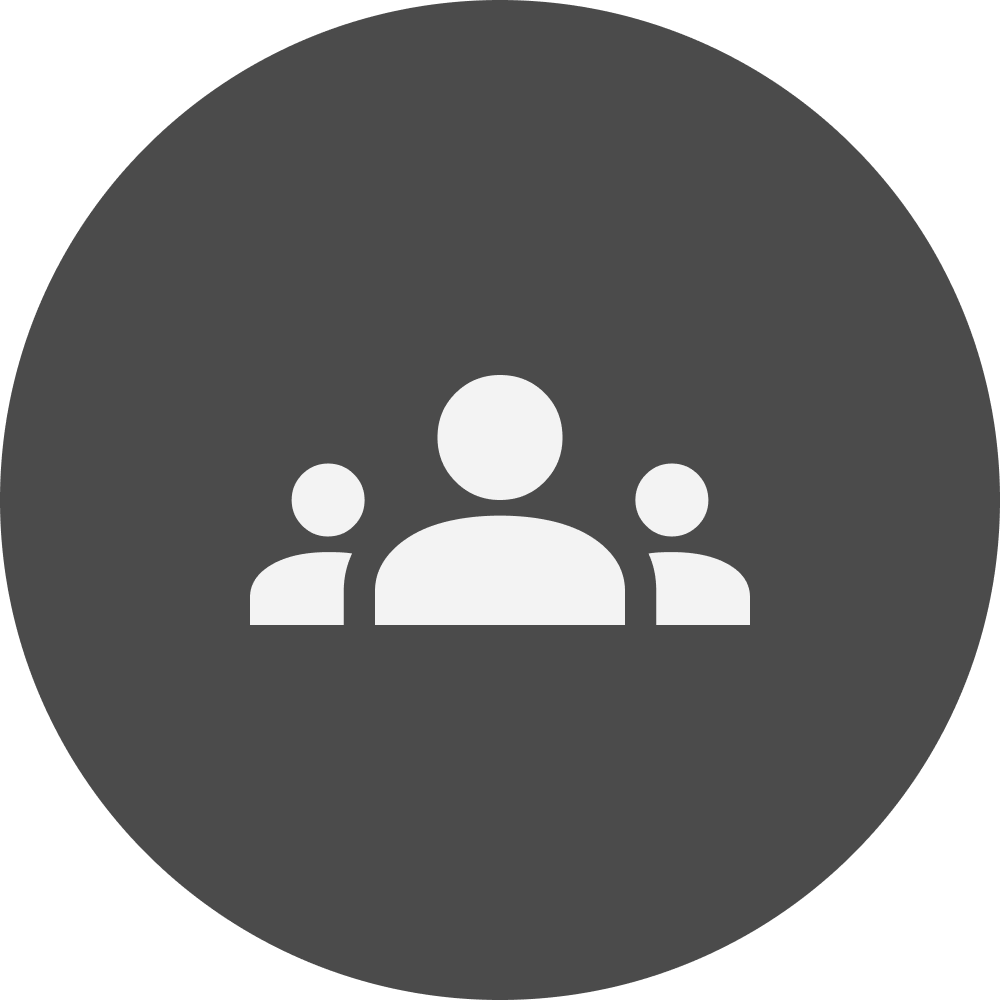
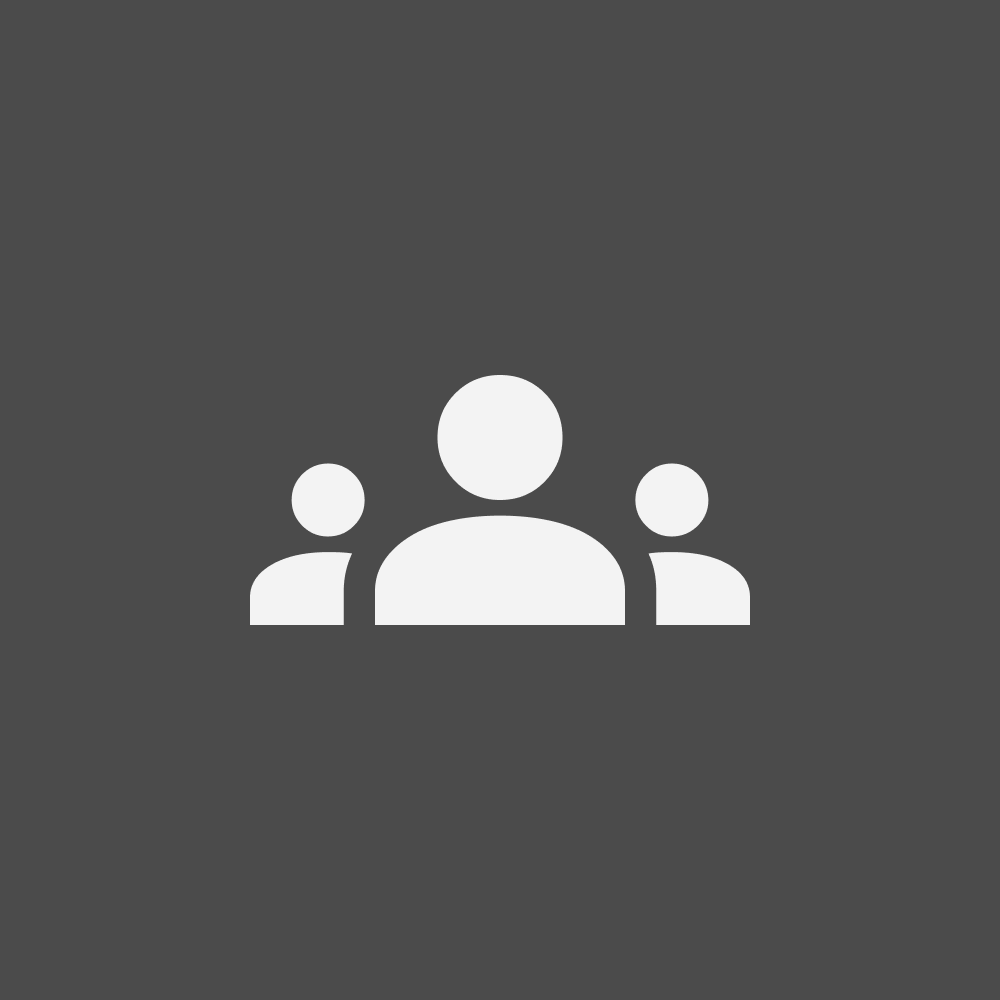
Chat Page UI UX done.

diff --git a/lib/src/presentation/common/widgets/useful.dart b/lib/src/presentation/common/widgets/useful.dart
@@ -137,7 +137,11 @@ Widget checkBox(String label, bool? value, bool tristate,
   ]);
 }
 
-Widget profilePicture(double diameter, String address, {bool isUrl = false}) {
+Widget profilePicture(
+  double diameter,
+  String address, {
+  bool isUrl = false,
+}) {
   return Container(
       width: diameter,
       height: diameter,
@@ -153,18 +157,24 @@ Widget profilePicture(double diameter, String address, {bool isUrl = false}) {
           )));
 }
 
-Widget teamPicture(double diameter, String address) {
+Widget teamPicture(
+  double size,
+  String address, {
+  bool isUrl = false,
+}) {
   return Container(
-      width: diameter,
-      height: diameter,
+      width: size,
+      height: size,
       decoration: BoxDecoration(
-          shape: BoxShape.circle,
+          // shape: BoxShape.circle,
           image: DecorationImage(
-            image: address == ''
-                ? const ExactAssetImage("assets/images/test.jpeg")
-                : Image.network(address).image,
-            fit: BoxFit.cover,
-          )));
+        image: isUrl
+            ? address == ''
+                ? const ExactAssetImage("assets/images/avatar_temp.png")
+                : Image.network(address).image
+            : ExactAssetImage("assets/images/$address"),
+        fit: BoxFit.cover,
+      )));
 }
 
 Widget circleIcon({color, icon}) {
@@ -250,12 +260,13 @@ Widget smallText(String label,
     color = blackColor,
     int? maxLines,
     weight = FontWeight.w400,
-    alignment = TextAlign.left}) {
+    alignment = TextAlign.left,
+    overflow = TextOverflow.ellipsis}) {
   return Text(
     label,
     maxLines: maxLines,
     textAlign: alignment,
-    overflow: TextOverflow.ellipsis,
+    overflow: overflow,
     style: TextStyle(
       fontSize: size,
       color: color,
@@ -341,6 +352,45 @@ Widget secondaryButton(
               style:
                   TextStyle(color: Theme.of(context).colorScheme.onSecondary),
             ),
+  );
+}
+
+Widget secondaryIconButton(
+  BuildContext context,
+  Function() onPressedHandler,
+  IconData icon, {
+  horizontalPadding = 30.0,
+  verticalPadding = 10.0,
+  double? elevation,
+  bool isLoading = false,
+  Widget? childBuilder,
+}) {
+  return ElevatedButton(
+    style: ElevatedButton.styleFrom(
+      elevation: elevation,
+      backgroundColor: Theme.of(context).colorScheme.secondary,
+      textStyle: TextStyle(color: Theme.of(context).colorScheme.onSecondary),
+      padding: EdgeInsets.symmetric(
+        vertical: verticalPadding,
+        horizontal: horizontalPadding,
+      ),
+    ),
+    onPressed: () {
+      if (isLoading) {
+        return;
+      }
+      onPressedHandler();
+    },
+    child: isLoading
+        ? SizedBox(
+            height: 17,
+            width: 17,
+            child: CircularProgressIndicator(
+                strokeWidth: 1,
+                color: Theme.of(context).colorScheme.onSecondary),
+          )
+        : childBuilder ??
+            Icon(icon, color: Theme.of(context).colorScheme.onSecondary),
   );
 }
 

diff --git a/lib/src/presentation/chat/widgets/chat_body.dart b/lib/src/presentation/chat/widgets/chat_body.dart
@@ -1,0 +1,86 @@
+import 'package:flutter/material.dart';
+import 'package:launchlab/src/config/app_theme.dart';
+import 'package:launchlab/src/presentation/common/widgets/useful.dart';
+
+class ChatBody extends StatelessWidget {
+  const ChatBody({super.key});
+
+  @override
+  Widget build(BuildContext context) {
+    return Container(
+        padding: EdgeInsets.symmetric(horizontal: 10.0),
+        child: ListView(
+          children: [
+            SizedBox(
+              height: 20.0,
+            ),
+            ChatBubble()
+          ],
+        ));
+  }
+}
+
+class ChatBubble extends StatelessWidget {
+  const ChatBubble({super.key});
+
+  @override
+  Widget build(BuildContext context) {
+    return Container(
+      margin: const EdgeInsets.symmetric(vertical: 10.0),
+      child: Row(
+        textDirection: TextDirection.ltr,
+        children: [
+          Expanded(
+              flex: 3,
+              child: Row(
+                crossAxisAlignment: CrossAxisAlignment.end,
+                children: [
+                  profilePicture(35.0, "avatar_temp.png"),
+                  const SizedBox(
+                    width: 15.0,
+                  ),
+                  Expanded(
+                    child: Container(
+                      padding: const EdgeInsets.symmetric(
+                          horizontal: 10.0, vertical: 10.0),
+                      decoration: BoxDecoration(
+                          borderRadius: BorderRadius.circular(10.0),
+                          color: whiteColor),
+                      child: Column(
+                        children: [
+                          Row(
+                            children: [
+                              Flexible(
+                                child: smallText(
+                                  "Jm San Diego",
+                                  weight: FontWeight.bold,
+                                  maxLines: 2,
+                                ),
+                              )
+                            ],
+                          ),
+                          const SizedBox(
+                            height: 5.0,
+                          ),
+                          Row(
+                            children: [
+                              Flexible(
+                                child: smallText(
+                                  "A team to revolutionize the blockch technology.",
+                                  overflow: null,
+                                ),
+                              )
+                            ],
+                          ),
+                        ],
+                      ),
+                    ),
+                  ),
+                ],
+              )),
+          Expanded(flex: 1, child: Container()),
+        ],
+      ),
+    );
+  }
+}

diff --git a/lib/src/presentation/chat/widgets/chat_page_header.dart b/lib/src/presentation/chat/widgets/chat_page_header.dart
@@ -1,0 +1,52 @@
+import 'package:flutter/material.dart';
+import 'package:launchlab/src/config/app_theme.dart';
+import 'package:launchlab/src/presentation/common/widgets/useful.dart';
+import 'package:launchlab/src/utils/helper.dart';
+
+class ChatPageHeader extends StatelessWidget {
+  const ChatPageHeader({super.key});
+
+  @override
+  Widget build(BuildContext context) {
+    return Container(
+      padding: const EdgeInsets.symmetric(
+        horizontal: 20.0,
+        vertical: 10.0,
+      ),
+      decoration: const BoxDecoration(color: yellowColor),
+      child: Column(
+        children: [
+          Row(mainAxisAlignment: MainAxisAlignment.spaceBetween, children: [
+            GestureDetector(
+                onTap: () {
+                  navigatePop(context);
+                },
+                child: const Icon(Icons.keyboard_backspace_outlined)),
+            teamPicture(40.0, "team_avatar_temp.png"),
+          ]),
+          const SizedBox(
+            height: 20.0,
+          ),
+          Row(
+            children: [
+              profilePicture(50.0, "avatar_temp.png"),
+              const SizedBox(
+                width: 15.0,
+              ),
+              Column(
+                crossAxisAlignment: CrossAxisAlignment.start,
+                children: [
+                  headerText("Jm San Diego"),
+                  bodyText("Tech Lead", color: greyColor.shade700)
+                ],
+              )
+            ],
+          ),
+          const SizedBox(
+            height: 10.0,
+          ),
+        ],
+      ),
+    );
+  }
+}

diff --git a/lib/src/config/app_router.dart b/lib/src/config/app_router.dart
@@ -4,6 +4,7 @@ import 'package:go_router/go_router.dart';
 import 'package:launchlab/src/domain/user/models/accomplishment_entity.dart';
 import 'package:launchlab/src/domain/user/models/experience_entity.dart';
 import 'package:launchlab/src/presentation/authentication/screens/signin_page.dart';
+import 'package:launchlab/src/presentation/chat/screens/team_chat_page.dart';
 import 'package:launchlab/src/presentation/chat/screens/team_chats_page.dart';
 import 'package:launchlab/src/presentation/chat/widgets/team_chat_list.dart';
 import 'package:launchlab/src/presentation/chat/widgets/team_invite_chat_list.dart';
@@ -244,8 +245,10 @@ final GoRouter appRouter = GoRouter(
                 ),
                 GoRoute(
                   parentNavigatorKey: _chatShellKey,
-                  path: "/test",
-                  builder: (context, state) => TestPage(),
+                  path: "/team-chat/:chatId",
+                  builder: (context, state) {
+                    return TeamChatPage(chatId: state.pathParameters["chatId"]);
+                  },
                 ),
                 ShellRoute(
                   navigatorKey: _nestedTeamChatShellKey,

diff --git a/lib/src/presentation/chat/widgets/chat_message_bar.dart b/lib/src/presentation/chat/widgets/chat_message_bar.dart
@@ -1,0 +1,32 @@
+import 'package:flutter/material.dart';
+import 'package:launchlab/src/presentation/common/widgets/form_fields/text_field.dart';
+import 'package:launchlab/src/presentation/common/widgets/useful.dart';
+
+class ChatMessageBar extends StatelessWidget {
+  const ChatMessageBar({super.key});
+
+  @override
+  Widget build(BuildContext context) {
+    return Container(
+        padding: const EdgeInsets.symmetric(horizontal: 10.0, vertical: 20.0),
+        child: Row(
+          children: [
+            Expanded(
+              child: TextFieldWidget(
+                  endSpacing: false,
+                  focusNode: FocusNode(),
+                  onChangedHandler: (val) {},
+                  label: "",
+                  value: "",
+                  hint: "Enter Message",
+                  controller: TextEditingController()),
+            ),
+            const SizedBox(
+              width: 20.0,
+            ),
+            secondaryIconButton(
+                context, () => null, Icons.arrow_right_alt_outlined),
+          ],
+        ));
+  }
+}

diff --git a/lib/src/presentation/chat/screens/team_chat_page.dart b/lib/src/presentation/chat/screens/team_chat_page.dart
@@ -1,0 +1,36 @@
+import 'package:flutter/material.dart';
+import 'package:launchlab/src/config/app_theme.dart';
+import 'package:launchlab/src/presentation/chat/widgets/chat_body.dart';
+import 'package:launchlab/src/presentation/chat/widgets/chat_message_bar.dart';
+import 'package:launchlab/src/presentation/chat/widgets/chat_page_header.dart';
+import 'package:launchlab/src/presentation/common/widgets/useful.dart';
+import 'package:launchlab/src/utils/helper.dart';
+
+class TeamChatPage extends StatefulWidget {
+  const TeamChatPage({
+    super.key,
+    required this.chatId,
+  });
+
+  final String? chatId;
+
+  @override
+  State<TeamChatPage> createState() => _TeamChatPageState();
+}
+
+class _TeamChatPageState extends State<TeamChatPage> {
+  @override
+  Widget build(BuildContext context) {
+    return Scaffold(
+      body: () {
+        return Column(children: [
+          ChatPageHeader(),
+          Expanded(
+            child: ChatBody(),
+          ),
+          ChatMessageBar(),
+        ]);
+      }(),
+    );
+  }
+}

diff --git a/lib/src/presentation/common/widgets/form_fields/text_field.dart b/lib/src/presentation/common/widgets/form_fields/text_field.dart
@@ -53,6 +53,7 @@ class TextFieldWidget extends StatefulWidget {
     required this.value,
     required this.hint,
     this.errorText,
+    this.endSpacing = true,
     this.size = 1,
     required this.controller,
     this.keyboard = TextInputType.multiline,
@@ -67,6 +68,7 @@ class TextFieldWidget extends StatefulWidget {
   final String value;
   final String hint;
   final String? errorText;
+  final bool endSpacing;
   final int size;
   final TextEditingController controller;
   final TextInputType keyboard;
@@ -88,6 +90,7 @@ class _TextFieldWidgetState extends State<TextFieldWidget> {
   @override
   Widget build(BuildContext context) {
     return userInput(
+      endSpacing: widget.endSpacing,
       prefixWidget: widget.prefixWidget,
       suffixWidget: widget.suffixWidget,
       focusNode: widget.focusNode,

diff --git a/lib/src/presentation/chat/widgets/chat_item.dart b/lib/src/presentation/chat/widgets/chat_item.dart
@@ -27,7 +27,9 @@ class ChatItem extends StatelessWidget {
         chat is TeamChatEntity ? ChatTypes.team : ChatTypes.request;
 
     return GestureDetector(
-      onTap: () {},
+      onTap: () {
+        navigatePush(context, "/team-chat/${chat?.id}");
+      },
       child: Container(
         padding: const EdgeInsets.symmetric(horizontal: 15.0, vertical: 20.0),
         margin: const EdgeInsets.symmetric(vertical: 8.0, horizontal: 0),

diff --git a/lib/src/data/user/user_repository.dart b/lib/src/data/user/user_repository.dart
@@ -377,7 +377,7 @@ class UserRepository implements UserRepositoryImpl {
       if (request.isSignedUrlEnabled) {
         signedUrl = await _supabase.client.storage
             .from("user_avatar_bucket")
-            .createSignedUrl(res[0]['file_identifier'], 60);
+            .createSignedUrl(res[0]['file_identifier'], 31000000);
       }
 
       return UserAvatarEntity(

diff --git a/lib/src/presentation/chat/cubits/team_chats_page_cubit.dart b/lib/src/presentation/chat/cubits/team_chats_page_cubit.dart
@@ -1,5 +1,4 @@
 import 'package:equatable/equatable.dart';
-import 'package:flutter/material.dart';
 import 'package:flutter_bloc/flutter_bloc.dart';
 import 'package:launchlab/src/data/chat/chat_repository.dart';
 import 'package:launchlab/src/data/team/team_repository.dart';
